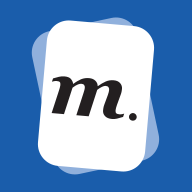
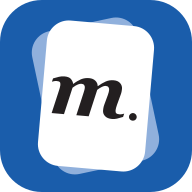
Add files via upload

diff --git a/sw.js b/sw.js
@@ -1,1 +1,1 @@
-try{self["workbox:core:7.4.0"]&&_()}catch(t){}const t=(t,...e)=>{let s=t;return e.length>0&&(s+=` :: ${JSON.stringify(e)}`),s};class e extends Error{constructor(e,s){super(t(e,s)),this.name=e,this.details=s}}try{self["workbox:routing:7.4.0"]&&_()}catch(t){}const s=t=>t&&"object"==typeof t?t:{handle:t};class n{constructor(t,e,n="GET"){this.handler=s(e),this.match=t,this.method=n}setCatchHandler(t){this.catchHandler=s(t)}}class i extends n{constructor(t,e,s){super(({url:e})=>{const s=t.exec(e.href);if(s&&(e.origin===location.origin||0===s.index))return s.slice(1)},e,s)}}class r{constructor(){this.t=new Map,this.i=new Map}get routes(){return this.t}addFetchListener(){self.addEventListener("fetch",t=>{const{request:e}=t,s=this.handleRequest({request:e,event:t});s&&t.respondWith(s)})}addCacheListener(){self.addEventListener("message",t=>{if(t.data&&"CACHE_URLS"===t.data.type){const{payload:e}=t.data,s=Promise.all(e.urlsToCache.map(e=>{"string"==typeof e&&(e=[e]);const s=new Request(...e);return this.handleRequest({request:s,event:t})}));t.waitUntil(s),t.ports&&t.ports[0]&&s.then(()=>t.ports[0].postMessage(!0))}})}handleRequest({request:t,event:e}){const s=new URL(t.url,location.href);if(!s.protocol.startsWith("http"))return;const n=s.origin===location.origin,{params:i,route:r}=this.findMatchingRoute({event:e,request:t,sameOrigin:n,url:s});let a=r&&r.handler;const o=t.method;if(!a&&this.i.has(o)&&(a=this.i.get(o)),!a)return;let c;try{c=a.handle({url:s,request:t,event:e,params:i})}catch(t){c=Promise.reject(t)}const h=r&&r.catchHandler;return c instanceof Promise&&(this.o||h)&&(c=c.catch(async n=>{if(h)try{return await h.handle({url:s,request:t,event:e,params:i})}catch(t){t instanceof Error&&(n=t)}if(this.o)return this.o.handle({url:s,request:t,event:e});throw n})),c}findMatchingRoute({url:t,sameOrigin:e,request:s,event:n}){const i=this.t.get(s.method)||[];for(const r of i){let i;const a=r.match({url:t,sameOrigin:e,request:s,event:n});if(a)return i=a,(Array.isArray(i)&&0===i.length||a.constructor===Object&&0===Object.keys(a).length||"boolean"==typeof a)&&(i=void 0),{route:r,params:i}}return{}}setDefaultHandler(t,e="GET"){this.i.set(e,s(t))}setCatchHandler(t){this.o=s(t)}registerRoute(t){this.t.has(t.method)||this.t.set(t.method,[]),this.t.get(t.method).push(t)}unregisterRoute(t){if(!this.t.has(t.method))throw new e("unregister-route-but-not-found-with-method",{method:t.method});const s=this.t.get(t.method).indexOf(t);if(!(s>-1))throw new e("unregister-route-route-not-registered");this.t.get(t.method).splice(s,1)}}let a;const o=()=>(a||(a=new r,a.addFetchListener(),a.addCacheListener()),a);function c(t,s,r){let a;if("string"==typeof t){const e=new URL(t,location.href);a=new n(({url:t})=>t.href===e.href,s,r)}else if(t instanceof RegExp)a=new i(t,s,r);else if("function"==typeof t)a=new n(t,s,r);else{if(!(t instanceof n))throw new e("unsupported-route-type",{moduleName:"workbox-routing",funcName:"registerRoute",paramName:"capture"});a=t}return o().registerRoute(a),a}const h={googleAnalytics:"googleAnalytics",precache:"precache-v2",prefix:"workbox",runtime:"runtime",suffix:"undefined"!=typeof registration?registration.scope:""},u=t=>[h.prefix,t,h.suffix].filter(t=>t&&t.length>0).join("-"),l=t=>t||u(h.precache),f=t=>t||u(h.runtime);function w(t){t.then(()=>{})}const d=new Set;function p(){return p=Object.assign?Object.assign.bind():function(t){for(var e=1;e<arguments.length;e++){var s=arguments[e];for(var n in s)({}).hasOwnProperty.call(s,n)&&(t[n]=s[n])}return t},p.apply(null,arguments)}let y,m;const g=new WeakMap,b=new WeakMap,v=new WeakMap,R=new WeakMap,q=new WeakMap;let D={get(t,e,s){if(t instanceof IDBTransaction){if("done"===e)return b.get(t);if("objectStoreNames"===e)return t.objectStoreNames||v.get(t);if("store"===e)return s.objectStoreNames[1]?void 0:s.objectStore(s.objectStoreNames[0])}return E(t[e])},set:(t,e,s)=>(t[e]=s,!0),has:(t,e)=>t instanceof IDBTransaction&&("done"===e||"store"===e)||e in t};function x(t){return t!==IDBDatabase.prototype.transaction||"objectStoreNames"in IDBTransaction.prototype?(m||(m=[IDBCursor.prototype.advance,IDBCursor.prototype.continue,IDBCursor.prototype.continuePrimaryKey])).includes(t)?function(...e){return t.apply(I(this),e),E(g.get(this))}:function(...e){return E(t.apply(I(this),e))}:function(e,...s){const n=t.call(I(this),e,...s);return v.set(n,e.sort?e.sort():[e]),E(n)}}function U(t){return"function"==typeof t?x(t):(t instanceof IDBTransaction&&function(t){if(b.has(t))return;const e=new Promise((e,s)=>{const n=()=>{t.removeEventListener("complete",i),t.removeEventListener("error",r),t.removeEventListener("abort",r)},i=()=>{e(),n()},r=()=>{s(t.error||new DOMException("AbortError","AbortError")),n()};t.addEventListener("complete",i),t.addEventListener("error",r),t.addEventListener("abort",r)});b.set(t,e)}(t),e=t,(y||(y=[IDBDatabase,IDBObjectStore,IDBIndex,IDBCursor,IDBTransaction])).some(t=>e instanceof t)?new Proxy(t,D):t);var e}function E(t){if(t instanceof IDBRequest)return function(t){const e=new Promise((e,s)=>{const n=()=>{t.removeEventListener("success",i),t.removeEventListener("error",r)},i=()=>{e(E(t.result)),n()},r=()=>{s(t.error),n()};t.addEventListener("success",i),t.addEventListener("error",r)});return e.then(e=>{e instanceof IDBCursor&&g.set(e,t)}).catch(()=>{}),q.set(e,t),e}(t);if(R.has(t))return R.get(t);const e=U(t);return e!==t&&(R.set(t,e),q.set(e,t)),e}const I=t=>q.get(t);const L=["get","getKey","getAll","getAllKeys","count"],N=["put","add","delete","clear"],T=new Map;function k(t,e){if(!(t instanceof IDBDatabase)||e in t||"string"!=typeof e)return;if(T.get(e))return T.get(e);const s=e.replace(/FromIndex$/,""),n=e!==s,i=N.includes(s);if(!(s in(n?IDBIndex:IDBObjectStore).prototype)||!i&&!L.includes(s))return;const r=async function(t,...e){const r=this.transaction(t,i?"readwrite":"readonly");let a=r.store;return n&&(a=a.index(e.shift())),(await Promise.all([a[s](...e),i&&r.done]))[0]};return T.set(e,r),r}D=(t=>p({},t,{get:(e,s,n)=>k(e,s)||t.get(e,s,n),has:(e,s)=>!!k(e,s)||t.has(e,s)}))(D);try{self["workbox:expiration:7.4.0"]&&_()}catch(t){}const C="cache-entries",O=t=>{const e=new URL(t,location.href);return e.hash="",e.href};class B{constructor(t){this.h=null,this.u=t}l(t){const e=t.createObjectStore(C,{keyPath:"id"});e.createIndex("cacheName","cacheName",{unique:!1}),e.createIndex("timestamp","timestamp",{unique:!1})}p(t){this.l(t),this.u&&function(t,{blocked:e}={}){const s=indexedDB.deleteDatabase(t);e&&s.addEventListener("blocked",t=>e(t.oldVersion,t)),E(s).then(()=>{})}(this.u)}async setTimestamp(t,e){const s={url:t=O(t),timestamp:e,cacheName:this.u,id:this.m(t)},n=(await this.getDb()).transaction(C,"readwrite",{durability:"relaxed"});await n.store.put(s),await n.done}async getTimestamp(t){const e=await this.getDb(),s=await e.get(C,this.m(t));return null==s?void 0:s.timestamp}async expireEntries(t,e){const s=await this.getDb();let n=await s.transaction(C).store.index("timestamp").openCursor(null,"prev");const i=[];let r=0;for(;n;){const s=n.value;s.cacheName===this.u&&(t&&s.timestamp<t||e&&r>=e?i.push(n.value):r++),n=await n.continue()}const a=[];for(const t of i)await s.delete(C,t.id),a.push(t.url);return a}m(t){return this.u+"|"+O(t)}async getDb(){return this.h||(this.h=await function(t,e,{blocked:s,upgrade:n,blocking:i,terminated:r}={}){const a=indexedDB.open(t,e),o=E(a);return n&&a.addEventListener("upgradeneeded",t=>{n(E(a.result),t.oldVersion,t.newVersion,E(a.transaction),t)}),s&&a.addEventListener("blocked",t=>s(t.oldVersion,t.newVersion,t)),o.then(t=>{r&&t.addEventListener("close",()=>r()),i&&t.addEventListener("versionchange",t=>i(t.oldVersion,t.newVersion,t))}).catch(()=>{}),o}("workbox-expiration",1,{upgrade:this.p.bind(this)})),this.h}}class P{constructor(t,e={}){this.v=!1,this.R=!1,this.q=e.maxEntries,this.D=e.maxAgeSeconds,this.U=e.matchOptions,this.u=t,this._=new B(t)}async expireEntries(){if(this.v)return void(this.R=!0);this.v=!0;const t=this.D?Date.now()-1e3*this.D:0,e=await this._.expireEntries(t,this.q),s=await self.caches.open(this.u);for(const t of e)await s.delete(t,this.U);this.v=!1,this.R&&(this.R=!1,w(this.expireEntries()))}async updateTimestamp(t){await this._.setTimestamp(t,Date.now())}async isURLExpired(t){if(this.D){const e=await this._.getTimestamp(t),s=Date.now()-1e3*this.D;return void 0===e||e<s}return!1}async delete(){this.R=!1,await this._.expireEntries(1/0)}}class M{constructor(t={}){this.cachedResponseWillBeUsed=async({event:t,request:e,cacheName:s,cachedResponse:n})=>{if(!n)return null;const i=this.I(n),r=this.L(s);w(r.expireEntries());const a=r.updateTimestamp(e.url);if(t)try{t.waitUntil(a)}catch(t){}return i?n:null},this.cacheDidUpdate=async({cacheName:t,request:e})=>{const s=this.L(t);await s.updateTimestamp(e.url),await s.expireEntries()},this.N=t,this.D=t.maxAgeSeconds,this.T=new Map,t.purgeOnQuotaError&&function(t){d.add(t)}(()=>this.deleteCacheAndMetadata())}L(t){if(t===f())throw new e("expire-custom-caches-only");let s=this.T.get(t);return s||(s=new P(t,this.N),this.T.set(t,s)),s}I(t){if(!this.D)return!0;const e=this.k(t);if(null===e)return!0;return e>=Date.now()-1e3*this.D}k(t){if(!t.headers.has("date"))return null;const e=t.headers.get("date"),s=new Date(e).getTime();return isNaN(s)?null:s}async deleteCacheAndMetadata(){for(const[t,e]of this.T)await self.caches.delete(t),await e.delete();this.T=new Map}}try{self["workbox:strategies:7.4.0"]&&_()}catch(t){}const S={cacheWillUpdate:async({response:t})=>200===t.status||0===t.status?t:null};function W(t,e){const s=new URL(t);for(const t of e)s.searchParams.delete(t);return s.href}class j{constructor(){this.promise=new Promise((t,e)=>{this.resolve=t,this.reject=e})}}function K(t){return"string"==typeof t?new Request(t):t}class A{constructor(t,e){this.C={},Object.assign(this,e),this.event=e.event,this.O=t,this.B=new j,this.P=[],this.M=[...t.plugins],this.S=new Map;for(const t of this.M)this.S.set(t,{});this.event.waitUntil(this.B.promise)}async fetch(t){const{event:s}=this;let n=K(t);if("navigate"===n.mode&&s instanceof FetchEvent&&s.preloadResponse){const t=await s.preloadResponse;if(t)return t}const i=this.hasCallback("fetchDidFail")?n.clone():null;try{for(const t of this.iterateCallbacks("requestWillFetch"))n=await t({request:n.clone(),event:s})}catch(t){if(t instanceof Error)throw new e("plugin-error-request-will-fetch",{thrownErrorMessage:t.message})}const r=n.clone();try{let t;t=await fetch(n,"navigate"===n.mode?void 0:this.O.fetchOptions);for(const e of this.iterateCallbacks("fetchDidSucceed"))t=await e({event:s,request:r,response:t});return t}catch(t){throw i&&await this.runCallbacks("fetchDidFail",{error:t,event:s,originalRequest:i.clone(),request:r.clone()}),t}}async fetchAndCachePut(t){const e=await this.fetch(t),s=e.clone();return this.waitUntil(this.cachePut(t,s)),e}async cacheMatch(t){const e=K(t);let s;const{cacheName:n,matchOptions:i}=this.O,r=await this.getCacheKey(e,"read"),a=Object.assign(Object.assign({},i),{cacheName:n});s=await caches.match(r,a);for(const t of this.iterateCallbacks("cachedResponseWillBeUsed"))s=await t({cacheName:n,matchOptions:i,cachedResponse:s,request:r,event:this.event})||void 0;return s}async cachePut(t,s){const n=K(t);var i;await(i=0,new Promise(t=>setTimeout(t,i)));const r=await this.getCacheKey(n,"write");if(!s)throw new e("cache-put-with-no-response",{url:(a=r.url,new URL(String(a),location.href).href.replace(new RegExp(`^${location.origin}`),""))});var a;const o=await this.W(s);if(!o)return!1;const{cacheName:c,matchOptions:h}=this.O,u=await self.caches.open(c),l=this.hasCallback("cacheDidUpdate"),f=l?await async function(t,e,s,n){const i=W(e.url,s);if(e.url===i)return t.match(e,n);const r=Object.assign(Object.assign({},n),{ignoreSearch:!0}),a=await t.keys(e,r);for(const e of a)if(i===W(e.url,s))return t.match(e,n)}(u,r.clone(),["__WB_REVISION__"],h):null;try{await u.put(r,l?o.clone():o)}catch(t){if(t instanceof Error)throw"QuotaExceededError"===t.name&&await async function(){for(const t of d)await t()}(),t}for(const t of this.iterateCallbacks("cacheDidUpdate"))await t({cacheName:c,oldResponse:f,newResponse:o.clone(),request:r,event:this.event});return!0}async getCacheKey(t,e){const s=`${t.url} | ${e}`;if(!this.C[s]){let n=t;for(const t of this.iterateCallbacks("cacheKeyWillBeUsed"))n=K(await t({mode:e,request:n,event:this.event,params:this.params}));this.C[s]=n}return this.C[s]}hasCallback(t){for(const e of this.O.plugins)if(t in e)return!0;return!1}async runCallbacks(t,e){for(const s of this.iterateCallbacks(t))await s(e)}*iterateCallbacks(t){for(const e of this.O.plugins)if("function"==typeof e[t]){const s=this.S.get(e),n=n=>{const i=Object.assign(Object.assign({},n),{state:s});return e[t](i)};yield n}}waitUntil(t){return this.P.push(t),t}async doneWaiting(){for(;this.P.length;){const t=this.P.splice(0),e=(await Promise.allSettled(t)).find(t=>"rejected"===t.status);if(e)throw e.reason}}destroy(){this.B.resolve(null)}async W(t){let e=t,s=!1;for(const t of this.iterateCallbacks("cacheWillUpdate"))if(e=await t({request:this.request,response:e,event:this.event})||void 0,s=!0,!e)break;return s||e&&200!==e.status&&(e=void 0),e}}class F{constructor(t={}){this.cacheName=f(t.cacheName),this.plugins=t.plugins||[],this.fetchOptions=t.fetchOptions,this.matchOptions=t.matchOptions}handle(t){const[e]=this.handleAll(t);return e}handleAll(t){t instanceof FetchEvent&&(t={event:t,request:t.request});const e=t.event,s="string"==typeof t.request?new Request(t.request):t.request,n="params"in t?t.params:void 0,i=new A(this,{event:e,request:s,params:n}),r=this.j(i,s,e);return[r,this.K(r,i,s,e)]}async j(t,s,n){let i;await t.runCallbacks("handlerWillStart",{event:n,request:s});try{if(i=await this.A(s,t),!i||"error"===i.type)throw new e("no-response",{url:s.url})}catch(e){if(e instanceof Error)for(const r of t.iterateCallbacks("handlerDidError"))if(i=await r({error:e,event:n,request:s}),i)break;if(!i)throw e}for(const e of t.iterateCallbacks("handlerWillRespond"))i=await e({event:n,request:s,response:i});return i}async K(t,e,s,n){let i,r;try{i=await t}catch(r){}try{await e.runCallbacks("handlerDidRespond",{event:n,request:s,response:i}),await e.doneWaiting()}catch(t){t instanceof Error&&(r=t)}if(await e.runCallbacks("handlerDidComplete",{event:n,request:s,response:i,error:r}),e.destroy(),r)throw r}}class $ extends F{constructor(t={}){super(t),this.plugins.some(t=>"cacheWillUpdate"in t)||this.plugins.unshift(S),this.F=t.networkTimeoutSeconds||0}async A(t,s){const n=[],i=[];let r;if(this.F){const{id:e,promise:a}=this.$({request:t,logs:n,handler:s});r=e,i.push(a)}const a=this.H({timeoutId:r,request:t,logs:n,handler:s});i.push(a);const o=await s.waitUntil((async()=>await s.waitUntil(Promise.race(i))||await a)());if(!o)throw new e("no-response",{url:t.url});return o}$({request:t,logs:e,handler:s}){let n;return{promise:new Promise(e=>{n=setTimeout(async()=>{e(await s.cacheMatch(t))},1e3*this.F)}),id:n}}async H({timeoutId:t,request:e,logs:s,handler:n}){let i,r;try{r=await n.fetchAndCachePut(e)}catch(t){t instanceof Error&&(i=t)}return t&&clearTimeout(t),!i&&r||(r=await n.cacheMatch(e)),r}}function H(t,e){const s=e();return t.waitUntil(s),s}try{self["workbox:precaching:7.4.0"]&&_()}catch(t){}function G(t){if(!t)throw new e("add-to-cache-list-unexpected-type",{entry:t});if("string"==typeof t){const e=new URL(t,location.href);return{cacheKey:e.href,url:e.href}}const{revision:s,url:n}=t;if(!n)throw new e("add-to-cache-list-unexpected-type",{entry:t});if(!s){const t=new URL(n,location.href);return{cacheKey:t.href,url:t.href}}const i=new URL(n,location.href),r=new URL(n,location.href);return i.searchParams.set("__WB_REVISION__",s),{cacheKey:i.href,url:r.href}}class V{constructor(){this.updatedURLs=[],this.notUpdatedURLs=[],this.handlerWillStart=async({request:t,state:e})=>{e&&(e.originalRequest=t)},this.cachedResponseWillBeUsed=async({event:t,state:e,cachedResponse:s})=>{if("install"===t.type&&e&&e.originalRequest&&e.originalRequest instanceof Request){const t=e.originalRequest.url;s?this.notUpdatedURLs.push(t):this.updatedURLs.push(t)}return s}}}class J{constructor({precacheController:t}){this.cacheKeyWillBeUsed=async({request:t,params:e})=>{const s=(null==e?void 0:e.cacheKey)||this.G.getCacheKeyForURL(t.url);return s?new Request(s,{headers:t.headers}):t},this.G=t}}let Q,z;async function X(t,s){let n=null;if(t.url){n=new URL(t.url).origin}if(n!==self.location.origin)throw new e("cross-origin-copy-response",{origin:n});const i=t.clone(),r={headers:new Headers(i.headers),status:i.status,statusText:i.statusText},a=function(){if(void 0===Q){const t=new Response("");if("body"in t)try{new Response(t.body),Q=!0}catch(t){Q=!1}Q=!1}return Q}()?i.body:await i.blob();return new Response(a,r)}class Y extends F{constructor(t={}){t.cacheName=l(t.cacheName),super(t),this.V=!1!==t.fallbackToNetwork,this.plugins.push(Y.copyRedirectedCacheableResponsesPlugin)}async A(t,e){const s=await e.cacheMatch(t);return s||(e.event&&"install"===e.event.type?await this.J(t,e):await this.X(t,e))}async X(t,s){let n;const i=s.params||{};if(!this.V)throw new e("missing-precache-entry",{cacheName:this.cacheName,url:t.url});{const e=i.integrity,r=t.integrity,a=!r||r===e;n=await s.fetch(new Request(t,{integrity:"no-cors"!==t.mode?r||e:void 0})),e&&a&&"no-cors"!==t.mode&&(this.Y(),await s.cachePut(t,n.clone()))}return n}async J(t,s){this.Y();const n=await s.fetch(t);if(!await s.cachePut(t,n.clone()))throw new e("bad-precaching-response",{url:t.url,status:n.status});return n}Y(){let t=null,e=0;for(const[s,n]of this.plugins.entries())n!==Y.copyRedirectedCacheableResponsesPlugin&&(n===Y.defaultPrecacheCacheabilityPlugin&&(t=s),n.cacheWillUpdate&&e++);0===e?this.plugins.push(Y.defaultPrecacheCacheabilityPlugin):e>1&&null!==t&&this.plugins.splice(t,1)}}Y.defaultPrecacheCacheabilityPlugin={cacheWillUpdate:async({response:t})=>!t||t.status>=400?null:t},Y.copyRedirectedCacheableResponsesPlugin={cacheWillUpdate:async({response:t})=>t.redirected?await X(t):t};class Z{constructor({cacheName:t,plugins:e=[],fallbackToNetwork:s=!0}={}){this.Z=new Map,this.tt=new Map,this.et=new Map,this.O=new Y({cacheName:l(t),plugins:[...e,new J({precacheController:this})],fallbackToNetwork:s}),this.install=this.install.bind(this),this.activate=this.activate.bind(this)}get strategy(){return this.O}precache(t){this.addToCacheList(t),this.st||(self.addEventListener("install",this.install),self.addEventListener("activate",this.activate),this.st=!0)}addToCacheList(t){const s=[];for(const n of t){"string"==typeof n?s.push(n):n&&void 0===n.revision&&s.push(n.url);const{cacheKey:t,url:i}=G(n),r="string"!=typeof n&&n.revision?"reload":"default";if(this.Z.has(i)&&this.Z.get(i)!==t)throw new e("add-to-cache-list-conflicting-entries",{firstEntry:this.Z.get(i),secondEntry:t});if("string"!=typeof n&&n.integrity){if(this.et.has(t)&&this.et.get(t)!==n.integrity)throw new e("add-to-cache-list-conflicting-integrities",{url:i});this.et.set(t,n.integrity)}if(this.Z.set(i,t),this.tt.set(i,r),s.length>0){const t=`Workbox is precaching URLs without revision info: ${s.join(", ")}\nThis is generally NOT safe. Learn more at https://bit.ly/wb-precache`;console.warn(t)}}}install(t){return H(t,async()=>{const e=new V;this.strategy.plugins.push(e);for(const[e,s]of this.Z){const n=this.et.get(s),i=this.tt.get(e),r=new Request(e,{integrity:n,cache:i,credentials:"same-origin"});await Promise.all(this.strategy.handleAll({params:{cacheKey:s},request:r,event:t}))}const{updatedURLs:s,notUpdatedURLs:n}=e;return{updatedURLs:s,notUpdatedURLs:n}})}activate(t){return H(t,async()=>{const t=await self.caches.open(this.strategy.cacheName),e=await t.keys(),s=new Set(this.Z.values()),n=[];for(const i of e)s.has(i.url)||(await t.delete(i),n.push(i.url));return{deletedURLs:n}})}getURLsToCacheKeys(){return this.Z}getCachedURLs(){return[...this.Z.keys()]}getCacheKeyForURL(t){const e=new URL(t,location.href);return this.Z.get(e.href)}getIntegrityForCacheKey(t){return this.et.get(t)}async matchPrecache(t){const e=t instanceof Request?t.url:t,s=this.getCacheKeyForURL(e);if(s){return(await self.caches.open(this.strategy.cacheName)).match(s)}}createHandlerBoundToURL(t){const s=this.getCacheKeyForURL(t);if(!s)throw new e("non-precached-url",{url:t});return e=>(e.request=new Request(t),e.params=Object.assign({cacheKey:s},e.params),this.strategy.handle(e))}}const tt=()=>(z||(z=new Z),z);class et extends n{constructor(t,e){super(({request:s})=>{const n=t.getURLsToCacheKeys();for(const i of function*(t,{ignoreURLParametersMatching:e=[/^utm_/,/^fbclid$/],directoryIndex:s="index.html",cleanURLs:n=!0,urlManipulation:i}={}){const r=new URL(t,location.href);r.hash="",yield r.href;const a=function(t,e=[]){for(const s of[...t.searchParams.keys()])e.some(t=>t.test(s))&&t.searchParams.delete(s);return t}(r,e);if(yield a.href,s&&a.pathname.endsWith("/")){const t=new URL(a.href);t.pathname+=s,yield t.href}if(n){const t=new URL(a.href);t.pathname+=".html",yield t.href}if(i){const t=i({url:r});for(const e of t)yield e.href}}(s.url,e)){const e=n.get(i);if(e){return{cacheKey:e,integrity:t.getIntegrityForCacheKey(e)}}}},t.strategy)}}var st,nt;self.skipWaiting(),self.addEventListener("activate",()=>self.clients.claim()),st={},function(t){tt().precache(t)}([{url:"pwa-512x512.png",revision:"642e9e2b7363ccf08d366879b3ed811d"},{url:"pwa-192x192.png",revision:"0093bbaa1b311d5fd0dc0a86edcb536f"},{url:"maskable-512x512.png",revision:"195ce0c35deb20212426b977095b41b7"},{url:"manifest.webmanifest",revision:"12393d45d35449ba7c7c7ca041d455ab"},{url:"index.html",revision:"d3cb89ab71cb25ec2ee5a0197d181b29"},{url:"favicon.svg",revision:"7f253175b97bca84fe17d796e4789ff4"},{url:"favicon-64.png",revision:"7b3002f5c02b911724714414a7317fae"},{url:"apple-touch-icon.png",revision:"40df6bef06a526eb7f9a17b3cd0d244e"},{url:"manifest.webmanifest",revision:"12393d45d35449ba7c7c7ca041d455ab"}]),function(t){const e=tt();c(new et(e,t))}(st),self.addEventListener("activate",t=>{const e=l();t.waitUntil((async(t,e="-precache-")=>{const s=(await self.caches.keys()).filter(s=>s.includes(e)&&s.includes(self.registration.scope)&&s!==t);return await Promise.all(s.map(t=>self.caches.delete(t))),s})(e).then(t=>{}))}),c(new class extends n{constructor(t,{allowlist:e=[/./],denylist:s=[]}={}){super(t=>this.nt(t),t),this.it=e,this.rt=s}nt({url:t,request:e}){if(e&&"navigate"!==e.mode)return!1;const s=t.pathname+t.search;for(const t of this.rt)if(t.test(s))return!1;return!!this.it.some(t=>t.test(s))}}((nt="index.html",tt().createHandlerBoundToURL(nt)))),c(/\/dictionary\.csv(\?.*)?$/,new $({cacheName:"eesti2000-dictionary",networkTimeoutSeconds:6,plugins:[new M({maxEntries:2})]}),"GET"),c(/\/grammar\.csv(\?.*)?$/,new $({cacheName:"eesti2000-grammar",networkTimeoutSeconds:6,plugins:[new M({maxEntries:2})]}),"GET"),c(/\/greetings\.csv(\?.*)?$/,new $({cacheName:"eesti2000-greetings",networkTimeoutSeconds:6,plugins:[new M({maxEntries:2})]}),"GET"),c(/\/praise\.csv(\?.*)?$/,new $({cacheName:"eesti2000-praise",networkTimeoutSeconds:6,plugins:[new M({maxEntries:2})]}),"GET");
+try{self["workbox:core:7.4.0"]&&_()}catch(t){}const t=(t,...e)=>{let s=t;return e.length>0&&(s+=` :: ${JSON.stringify(e)}`),s};class e extends Error{constructor(e,s){super(t(e,s)),this.name=e,this.details=s}}try{self["workbox:routing:7.4.0"]&&_()}catch(t){}const s=t=>t&&"object"==typeof t?t:{handle:t};class n{constructor(t,e,n="GET"){this.handler=s(e),this.match=t,this.method=n}setCatchHandler(t){this.catchHandler=s(t)}}class i extends n{constructor(t,e,s){super(({url:e})=>{const s=t.exec(e.href);if(s&&(e.origin===location.origin||0===s.index))return s.slice(1)},e,s)}}class r{constructor(){this.t=new Map,this.i=new Map}get routes(){return this.t}addFetchListener(){self.addEventListener("fetch",t=>{const{request:e}=t,s=this.handleRequest({request:e,event:t});s&&t.respondWith(s)})}addCacheListener(){self.addEventListener("message",t=>{if(t.data&&"CACHE_URLS"===t.data.type){const{payload:e}=t.data,s=Promise.all(e.urlsToCache.map(e=>{"string"==typeof e&&(e=[e]);const s=new Request(...e);return this.handleRequest({request:s,event:t})}));t.waitUntil(s),t.ports&&t.ports[0]&&s.then(()=>t.ports[0].postMessage(!0))}})}handleRequest({request:t,event:e}){const s=new URL(t.url,location.href);if(!s.protocol.startsWith("http"))return;const n=s.origin===location.origin,{params:i,route:r}=this.findMatchingRoute({event:e,request:t,sameOrigin:n,url:s});let a=r&&r.handler;const o=t.method;if(!a&&this.i.has(o)&&(a=this.i.get(o)),!a)return;let c;try{c=a.handle({url:s,request:t,event:e,params:i})}catch(t){c=Promise.reject(t)}const h=r&&r.catchHandler;return c instanceof Promise&&(this.o||h)&&(c=c.catch(async n=>{if(h)try{return await h.handle({url:s,request:t,event:e,params:i})}catch(t){t instanceof Error&&(n=t)}if(this.o)return this.o.handle({url:s,request:t,event:e});throw n})),c}findMatchingRoute({url:t,sameOrigin:e,request:s,event:n}){const i=this.t.get(s.method)||[];for(const r of i){let i;const a=r.match({url:t,sameOrigin:e,request:s,event:n});if(a)return i=a,(Array.isArray(i)&&0===i.length||a.constructor===Object&&0===Object.keys(a).length||"boolean"==typeof a)&&(i=void 0),{route:r,params:i}}return{}}setDefaultHandler(t,e="GET"){this.i.set(e,s(t))}setCatchHandler(t){this.o=s(t)}registerRoute(t){this.t.has(t.method)||this.t.set(t.method,[]),this.t.get(t.method).push(t)}unregisterRoute(t){if(!this.t.has(t.method))throw new e("unregister-route-but-not-found-with-method",{method:t.method});const s=this.t.get(t.method).indexOf(t);if(!(s>-1))throw new e("unregister-route-route-not-registered");this.t.get(t.method).splice(s,1)}}let a;const o=()=>(a||(a=new r,a.addFetchListener(),a.addCacheListener()),a);function c(t,s,r){let a;if("string"==typeof t){const e=new URL(t,location.href);a=new n(({url:t})=>t.href===e.href,s,r)}else if(t instanceof RegExp)a=new i(t,s,r);else if("function"==typeof t)a=new n(t,s,r);else{if(!(t instanceof n))throw new e("unsupported-route-type",{moduleName:"workbox-routing",funcName:"registerRoute",paramName:"capture"});a=t}return o().registerRoute(a),a}const h={googleAnalytics:"googleAnalytics",precache:"precache-v2",prefix:"workbox",runtime:"runtime",suffix:"undefined"!=typeof registration?registration.scope:""},u=t=>[h.prefix,t,h.suffix].filter(t=>t&&t.length>0).join("-"),l=t=>t||u(h.precache),f=t=>t||u(h.runtime);function w(t){t.then(()=>{})}const d=new Set;function p(){return p=Object.assign?Object.assign.bind():function(t){for(var e=1;e<arguments.length;e++){var s=arguments[e];for(var n in s)({}).hasOwnProperty.call(s,n)&&(t[n]=s[n])}return t},p.apply(null,arguments)}let y,m;const g=new WeakMap,b=new WeakMap,v=new WeakMap,R=new WeakMap,q=new WeakMap;let D={get(t,e,s){if(t instanceof IDBTransaction){if("done"===e)return b.get(t);if("objectStoreNames"===e)return t.objectStoreNames||v.get(t);if("store"===e)return s.objectStoreNames[1]?void 0:s.objectStore(s.objectStoreNames[0])}return E(t[e])},set:(t,e,s)=>(t[e]=s,!0),has:(t,e)=>t instanceof IDBTransaction&&("done"===e||"store"===e)||e in t};function x(t){return t!==IDBDatabase.prototype.transaction||"objectStoreNames"in IDBTransaction.prototype?(m||(m=[IDBCursor.prototype.advance,IDBCursor.prototype.continue,IDBCursor.prototype.continuePrimaryKey])).includes(t)?function(...e){return t.apply(I(this),e),E(g.get(this))}:function(...e){return E(t.apply(I(this),e))}:function(e,...s){const n=t.call(I(this),e,...s);return v.set(n,e.sort?e.sort():[e]),E(n)}}function U(t){return"function"==typeof t?x(t):(t instanceof IDBTransaction&&function(t){if(b.has(t))return;const e=new Promise((e,s)=>{const n=()=>{t.removeEventListener("complete",i),t.removeEventListener("error",r),t.removeEventListener("abort",r)},i=()=>{e(),n()},r=()=>{s(t.error||new DOMException("AbortError","AbortError")),n()};t.addEventListener("complete",i),t.addEventListener("error",r),t.addEventListener("abort",r)});b.set(t,e)}(t),e=t,(y||(y=[IDBDatabase,IDBObjectStore,IDBIndex,IDBCursor,IDBTransaction])).some(t=>e instanceof t)?new Proxy(t,D):t);var e}function E(t){if(t instanceof IDBRequest)return function(t){const e=new Promise((e,s)=>{const n=()=>{t.removeEventListener("success",i),t.removeEventListener("error",r)},i=()=>{e(E(t.result)),n()},r=()=>{s(t.error),n()};t.addEventListener("success",i),t.addEventListener("error",r)});return e.then(e=>{e instanceof IDBCursor&&g.set(e,t)}).catch(()=>{}),q.set(e,t),e}(t);if(R.has(t))return R.get(t);const e=U(t);return e!==t&&(R.set(t,e),q.set(e,t)),e}const I=t=>q.get(t);const L=["get","getKey","getAll","getAllKeys","count"],N=["put","add","delete","clear"],T=new Map;function k(t,e){if(!(t instanceof IDBDatabase)||e in t||"string"!=typeof e)return;if(T.get(e))return T.get(e);const s=e.replace(/FromIndex$/,""),n=e!==s,i=N.includes(s);if(!(s in(n?IDBIndex:IDBObjectStore).prototype)||!i&&!L.includes(s))return;const r=async function(t,...e){const r=this.transaction(t,i?"readwrite":"readonly");let a=r.store;return n&&(a=a.index(e.shift())),(await Promise.all([a[s](...e),i&&r.done]))[0]};return T.set(e,r),r}D=(t=>p({},t,{get:(e,s,n)=>k(e,s)||t.get(e,s,n),has:(e,s)=>!!k(e,s)||t.has(e,s)}))(D);try{self["workbox:expiration:7.4.0"]&&_()}catch(t){}const C="cache-entries",O=t=>{const e=new URL(t,location.href);return e.hash="",e.href};class B{constructor(t){this.h=null,this.u=t}l(t){const e=t.createObjectStore(C,{keyPath:"id"});e.createIndex("cacheName","cacheName",{unique:!1}),e.createIndex("timestamp","timestamp",{unique:!1})}p(t){this.l(t),this.u&&function(t,{blocked:e}={}){const s=indexedDB.deleteDatabase(t);e&&s.addEventListener("blocked",t=>e(t.oldVersion,t)),E(s).then(()=>{})}(this.u)}async setTimestamp(t,e){const s={url:t=O(t),timestamp:e,cacheName:this.u,id:this.m(t)},n=(await this.getDb()).transaction(C,"readwrite",{durability:"relaxed"});await n.store.put(s),await n.done}async getTimestamp(t){const e=await this.getDb(),s=await e.get(C,this.m(t));return null==s?void 0:s.timestamp}async expireEntries(t,e){const s=await this.getDb();let n=await s.transaction(C).store.index("timestamp").openCursor(null,"prev");const i=[];let r=0;for(;n;){const s=n.value;s.cacheName===this.u&&(t&&s.timestamp<t||e&&r>=e?i.push(n.value):r++),n=await n.continue()}const a=[];for(const t of i)await s.delete(C,t.id),a.push(t.url);return a}m(t){return this.u+"|"+O(t)}async getDb(){return this.h||(this.h=await function(t,e,{blocked:s,upgrade:n,blocking:i,terminated:r}={}){const a=indexedDB.open(t,e),o=E(a);return n&&a.addEventListener("upgradeneeded",t=>{n(E(a.result),t.oldVersion,t.newVersion,E(a.transaction),t)}),s&&a.addEventListener("blocked",t=>s(t.oldVersion,t.newVersion,t)),o.then(t=>{r&&t.addEventListener("close",()=>r()),i&&t.addEventListener("versionchange",t=>i(t.oldVersion,t.newVersion,t))}).catch(()=>{}),o}("workbox-expiration",1,{upgrade:this.p.bind(this)})),this.h}}class P{constructor(t,e={}){this.v=!1,this.R=!1,this.q=e.maxEntries,this.D=e.maxAgeSeconds,this.U=e.matchOptions,this.u=t,this._=new B(t)}async expireEntries(){if(this.v)return void(this.R=!0);this.v=!0;const t=this.D?Date.now()-1e3*this.D:0,e=await this._.expireEntries(t,this.q),s=await self.caches.open(this.u);for(const t of e)await s.delete(t,this.U);this.v=!1,this.R&&(this.R=!1,w(this.expireEntries()))}async updateTimestamp(t){await this._.setTimestamp(t,Date.now())}async isURLExpired(t){if(this.D){const e=await this._.getTimestamp(t),s=Date.now()-1e3*this.D;return void 0===e||e<s}return!1}async delete(){this.R=!1,await this._.expireEntries(1/0)}}class M{constructor(t={}){this.cachedResponseWillBeUsed=async({event:t,request:e,cacheName:s,cachedResponse:n})=>{if(!n)return null;const i=this.I(n),r=this.L(s);w(r.expireEntries());const a=r.updateTimestamp(e.url);if(t)try{t.waitUntil(a)}catch(t){}return i?n:null},this.cacheDidUpdate=async({cacheName:t,request:e})=>{const s=this.L(t);await s.updateTimestamp(e.url),await s.expireEntries()},this.N=t,this.D=t.maxAgeSeconds,this.T=new Map,t.purgeOnQuotaError&&function(t){d.add(t)}(()=>this.deleteCacheAndMetadata())}L(t){if(t===f())throw new e("expire-custom-caches-only");let s=this.T.get(t);return s||(s=new P(t,this.N),this.T.set(t,s)),s}I(t){if(!this.D)return!0;const e=this.k(t);if(null===e)return!0;return e>=Date.now()-1e3*this.D}k(t){if(!t.headers.has("date"))return null;const e=t.headers.get("date"),s=new Date(e).getTime();return isNaN(s)?null:s}async deleteCacheAndMetadata(){for(const[t,e]of this.T)await self.caches.delete(t),await e.delete();this.T=new Map}}try{self["workbox:strategies:7.4.0"]&&_()}catch(t){}const S={cacheWillUpdate:async({response:t})=>200===t.status||0===t.status?t:null};function W(t,e){const s=new URL(t);for(const t of e)s.searchParams.delete(t);return s.href}class j{constructor(){this.promise=new Promise((t,e)=>{this.resolve=t,this.reject=e})}}function K(t){return"string"==typeof t?new Request(t):t}class A{constructor(t,e){this.C={},Object.assign(this,e),this.event=e.event,this.O=t,this.B=new j,this.P=[],this.M=[...t.plugins],this.S=new Map;for(const t of this.M)this.S.set(t,{});this.event.waitUntil(this.B.promise)}async fetch(t){const{event:s}=this;let n=K(t);if("navigate"===n.mode&&s instanceof FetchEvent&&s.preloadResponse){const t=await s.preloadResponse;if(t)return t}const i=this.hasCallback("fetchDidFail")?n.clone():null;try{for(const t of this.iterateCallbacks("requestWillFetch"))n=await t({request:n.clone(),event:s})}catch(t){if(t instanceof Error)throw new e("plugin-error-request-will-fetch",{thrownErrorMessage:t.message})}const r=n.clone();try{let t;t=await fetch(n,"navigate"===n.mode?void 0:this.O.fetchOptions);for(const e of this.iterateCallbacks("fetchDidSucceed"))t=await e({event:s,request:r,response:t});return t}catch(t){throw i&&await this.runCallbacks("fetchDidFail",{error:t,event:s,originalRequest:i.clone(),request:r.clone()}),t}}async fetchAndCachePut(t){const e=await this.fetch(t),s=e.clone();return this.waitUntil(this.cachePut(t,s)),e}async cacheMatch(t){const e=K(t);let s;const{cacheName:n,matchOptions:i}=this.O,r=await this.getCacheKey(e,"read"),a=Object.assign(Object.assign({},i),{cacheName:n});s=await caches.match(r,a);for(const t of this.iterateCallbacks("cachedResponseWillBeUsed"))s=await t({cacheName:n,matchOptions:i,cachedResponse:s,request:r,event:this.event})||void 0;return s}async cachePut(t,s){const n=K(t);var i;await(i=0,new Promise(t=>setTimeout(t,i)));const r=await this.getCacheKey(n,"write");if(!s)throw new e("cache-put-with-no-response",{url:(a=r.url,new URL(String(a),location.href).href.replace(new RegExp(`^${location.origin}`),""))});var a;const o=await this.W(s);if(!o)return!1;const{cacheName:c,matchOptions:h}=this.O,u=await self.caches.open(c),l=this.hasCallback("cacheDidUpdate"),f=l?await async function(t,e,s,n){const i=W(e.url,s);if(e.url===i)return t.match(e,n);const r=Object.assign(Object.assign({},n),{ignoreSearch:!0}),a=await t.keys(e,r);for(const e of a)if(i===W(e.url,s))return t.match(e,n)}(u,r.clone(),["__WB_REVISION__"],h):null;try{await u.put(r,l?o.clone():o)}catch(t){if(t instanceof Error)throw"QuotaExceededError"===t.name&&await async function(){for(const t of d)await t()}(),t}for(const t of this.iterateCallbacks("cacheDidUpdate"))await t({cacheName:c,oldResponse:f,newResponse:o.clone(),request:r,event:this.event});return!0}async getCacheKey(t,e){const s=`${t.url} | ${e}`;if(!this.C[s]){let n=t;for(const t of this.iterateCallbacks("cacheKeyWillBeUsed"))n=K(await t({mode:e,request:n,event:this.event,params:this.params}));this.C[s]=n}return this.C[s]}hasCallback(t){for(const e of this.O.plugins)if(t in e)return!0;return!1}async runCallbacks(t,e){for(const s of this.iterateCallbacks(t))await s(e)}*iterateCallbacks(t){for(const e of this.O.plugins)if("function"==typeof e[t]){const s=this.S.get(e),n=n=>{const i=Object.assign(Object.assign({},n),{state:s});return e[t](i)};yield n}}waitUntil(t){return this.P.push(t),t}async doneWaiting(){for(;this.P.length;){const t=this.P.splice(0),e=(await Promise.allSettled(t)).find(t=>"rejected"===t.status);if(e)throw e.reason}}destroy(){this.B.resolve(null)}async W(t){let e=t,s=!1;for(const t of this.iterateCallbacks("cacheWillUpdate"))if(e=await t({request:this.request,response:e,event:this.event})||void 0,s=!0,!e)break;return s||e&&200!==e.status&&(e=void 0),e}}class F{constructor(t={}){this.cacheName=f(t.cacheName),this.plugins=t.plugins||[],this.fetchOptions=t.fetchOptions,this.matchOptions=t.matchOptions}handle(t){const[e]=this.handleAll(t);return e}handleAll(t){t instanceof FetchEvent&&(t={event:t,request:t.request});const e=t.event,s="string"==typeof t.request?new Request(t.request):t.request,n="params"in t?t.params:void 0,i=new A(this,{event:e,request:s,params:n}),r=this.j(i,s,e);return[r,this.K(r,i,s,e)]}async j(t,s,n){let i;await t.runCallbacks("handlerWillStart",{event:n,request:s});try{if(i=await this.A(s,t),!i||"error"===i.type)throw new e("no-response",{url:s.url})}catch(e){if(e instanceof Error)for(const r of t.iterateCallbacks("handlerDidError"))if(i=await r({error:e,event:n,request:s}),i)break;if(!i)throw e}for(const e of t.iterateCallbacks("handlerWillRespond"))i=await e({event:n,request:s,response:i});return i}async K(t,e,s,n){let i,r;try{i=await t}catch(r){}try{await e.runCallbacks("handlerDidRespond",{event:n,request:s,response:i}),await e.doneWaiting()}catch(t){t instanceof Error&&(r=t)}if(await e.runCallbacks("handlerDidComplete",{event:n,request:s,response:i,error:r}),e.destroy(),r)throw r}}class $ extends F{constructor(t={}){super(t),this.plugins.some(t=>"cacheWillUpdate"in t)||this.plugins.unshift(S),this.F=t.networkTimeoutSeconds||0}async A(t,s){const n=[],i=[];let r;if(this.F){const{id:e,promise:a}=this.$({request:t,logs:n,handler:s});r=e,i.push(a)}const a=this.H({timeoutId:r,request:t,logs:n,handler:s});i.push(a);const o=await s.waitUntil((async()=>await s.waitUntil(Promise.race(i))||await a)());if(!o)throw new e("no-response",{url:t.url});return o}$({request:t,logs:e,handler:s}){let n;return{promise:new Promise(e=>{n=setTimeout(async()=>{e(await s.cacheMatch(t))},1e3*this.F)}),id:n}}async H({timeoutId:t,request:e,logs:s,handler:n}){let i,r;try{r=await n.fetchAndCachePut(e)}catch(t){t instanceof Error&&(i=t)}return t&&clearTimeout(t),!i&&r||(r=await n.cacheMatch(e)),r}}function H(t,e){const s=e();return t.waitUntil(s),s}try{self["workbox:precaching:7.4.0"]&&_()}catch(t){}function G(t){if(!t)throw new e("add-to-cache-list-unexpected-type",{entry:t});if("string"==typeof t){const e=new URL(t,location.href);return{cacheKey:e.href,url:e.href}}const{revision:s,url:n}=t;if(!n)throw new e("add-to-cache-list-unexpected-type",{entry:t});if(!s){const t=new URL(n,location.href);return{cacheKey:t.href,url:t.href}}const i=new URL(n,location.href),r=new URL(n,location.href);return i.searchParams.set("__WB_REVISION__",s),{cacheKey:i.href,url:r.href}}class V{constructor(){this.updatedURLs=[],this.notUpdatedURLs=[],this.handlerWillStart=async({request:t,state:e})=>{e&&(e.originalRequest=t)},this.cachedResponseWillBeUsed=async({event:t,state:e,cachedResponse:s})=>{if("install"===t.type&&e&&e.originalRequest&&e.originalRequest instanceof Request){const t=e.originalRequest.url;s?this.notUpdatedURLs.push(t):this.updatedURLs.push(t)}return s}}}class J{constructor({precacheController:t}){this.cacheKeyWillBeUsed=async({request:t,params:e})=>{const s=(null==e?void 0:e.cacheKey)||this.G.getCacheKeyForURL(t.url);return s?new Request(s,{headers:t.headers}):t},this.G=t}}let Q,z;async function X(t,s){let n=null;if(t.url){n=new URL(t.url).origin}if(n!==self.location.origin)throw new e("cross-origin-copy-response",{origin:n});const i=t.clone(),r={headers:new Headers(i.headers),status:i.status,statusText:i.statusText},a=function(){if(void 0===Q){const t=new Response("");if("body"in t)try{new Response(t.body),Q=!0}catch(t){Q=!1}Q=!1}return Q}()?i.body:await i.blob();return new Response(a,r)}class Y extends F{constructor(t={}){t.cacheName=l(t.cacheName),super(t),this.V=!1!==t.fallbackToNetwork,this.plugins.push(Y.copyRedirectedCacheableResponsesPlugin)}async A(t,e){const s=await e.cacheMatch(t);return s||(e.event&&"install"===e.event.type?await this.J(t,e):await this.X(t,e))}async X(t,s){let n;const i=s.params||{};if(!this.V)throw new e("missing-precache-entry",{cacheName:this.cacheName,url:t.url});{const e=i.integrity,r=t.integrity,a=!r||r===e;n=await s.fetch(new Request(t,{integrity:"no-cors"!==t.mode?r||e:void 0})),e&&a&&"no-cors"!==t.mode&&(this.Y(),await s.cachePut(t,n.clone()))}return n}async J(t,s){this.Y();const n=await s.fetch(t);if(!await s.cachePut(t,n.clone()))throw new e("bad-precaching-response",{url:t.url,status:n.status});return n}Y(){let t=null,e=0;for(const[s,n]of this.plugins.entries())n!==Y.copyRedirectedCacheableResponsesPlugin&&(n===Y.defaultPrecacheCacheabilityPlugin&&(t=s),n.cacheWillUpdate&&e++);0===e?this.plugins.push(Y.defaultPrecacheCacheabilityPlugin):e>1&&null!==t&&this.plugins.splice(t,1)}}Y.defaultPrecacheCacheabilityPlugin={cacheWillUpdate:async({response:t})=>!t||t.status>=400?null:t},Y.copyRedirectedCacheableResponsesPlugin={cacheWillUpdate:async({response:t})=>t.redirected?await X(t):t};class Z{constructor({cacheName:t,plugins:e=[],fallbackToNetwork:s=!0}={}){this.Z=new Map,this.tt=new Map,this.et=new Map,this.O=new Y({cacheName:l(t),plugins:[...e,new J({precacheController:this})],fallbackToNetwork:s}),this.install=this.install.bind(this),this.activate=this.activate.bind(this)}get strategy(){return this.O}precache(t){this.addToCacheList(t),this.st||(self.addEventListener("install",this.install),self.addEventListener("activate",this.activate),this.st=!0)}addToCacheList(t){const s=[];for(const n of t){"string"==typeof n?s.push(n):n&&void 0===n.revision&&s.push(n.url);const{cacheKey:t,url:i}=G(n),r="string"!=typeof n&&n.revision?"reload":"default";if(this.Z.has(i)&&this.Z.get(i)!==t)throw new e("add-to-cache-list-conflicting-entries",{firstEntry:this.Z.get(i),secondEntry:t});if("string"!=typeof n&&n.integrity){if(this.et.has(t)&&this.et.get(t)!==n.integrity)throw new e("add-to-cache-list-conflicting-integrities",{url:i});this.et.set(t,n.integrity)}if(this.Z.set(i,t),this.tt.set(i,r),s.length>0){const t=`Workbox is precaching URLs without revision info: ${s.join(", ")}\nThis is generally NOT safe. Learn more at https://bit.ly/wb-precache`;console.warn(t)}}}install(t){return H(t,async()=>{const e=new V;this.strategy.plugins.push(e);for(const[e,s]of this.Z){const n=this.et.get(s),i=this.tt.get(e),r=new Request(e,{integrity:n,cache:i,credentials:"same-origin"});await Promise.all(this.strategy.handleAll({params:{cacheKey:s},request:r,event:t}))}const{updatedURLs:s,notUpdatedURLs:n}=e;return{updatedURLs:s,notUpdatedURLs:n}})}activate(t){return H(t,async()=>{const t=await self.caches.open(this.strategy.cacheName),e=await t.keys(),s=new Set(this.Z.values()),n=[];for(const i of e)s.has(i.url)||(await t.delete(i),n.push(i.url));return{deletedURLs:n}})}getURLsToCacheKeys(){return this.Z}getCachedURLs(){return[...this.Z.keys()]}getCacheKeyForURL(t){const e=new URL(t,location.href);return this.Z.get(e.href)}getIntegrityForCacheKey(t){return this.et.get(t)}async matchPrecache(t){const e=t instanceof Request?t.url:t,s=this.getCacheKeyForURL(e);if(s){return(await self.caches.open(this.strategy.cacheName)).match(s)}}createHandlerBoundToURL(t){const s=this.getCacheKeyForURL(t);if(!s)throw new e("non-precached-url",{url:t});return e=>(e.request=new Request(t),e.params=Object.assign({cacheKey:s},e.params),this.strategy.handle(e))}}const tt=()=>(z||(z=new Z),z);class et extends n{constructor(t,e){super(({request:s})=>{const n=t.getURLsToCacheKeys();for(const i of function*(t,{ignoreURLParametersMatching:e=[/^utm_/,/^fbclid$/],directoryIndex:s="index.html",cleanURLs:n=!0,urlManipulation:i}={}){const r=new URL(t,location.href);r.hash="",yield r.href;const a=function(t,e=[]){for(const s of[...t.searchParams.keys()])e.some(t=>t.test(s))&&t.searchParams.delete(s);return t}(r,e);if(yield a.href,s&&a.pathname.endsWith("/")){const t=new URL(a.href);t.pathname+=s,yield t.href}if(n){const t=new URL(a.href);t.pathname+=".html",yield t.href}if(i){const t=i({url:r});for(const e of t)yield e.href}}(s.url,e)){const e=n.get(i);if(e){return{cacheKey:e,integrity:t.getIntegrityForCacheKey(e)}}}},t.strategy)}}var st,nt;self.skipWaiting(),self.addEventListener("activate",()=>self.clients.claim()),st={},function(t){tt().precache(t)}([{url:"pwa-512x512.png",revision:"e214bba02b61a6f17deddc35a070a9ae"},{url:"pwa-192x192.png",revision:"099dcdf663f172d4da6239e2c25e30be"},{url:"maskable-512x512.png",revision:"195ce0c35deb20212426b977095b41b7"},{url:"manifest.webmanifest",revision:"12393d45d35449ba7c7c7ca041d455ab"},{url:"index.html",revision:"d3cb89ab71cb25ec2ee5a0197d181b29"},{url:"favicon.svg",revision:"7f253175b97bca84fe17d796e4789ff4"},{url:"favicon-64.png",revision:"7b3002f5c02b911724714414a7317fae"},{url:"apple-touch-icon.png",revision:"40df6bef06a526eb7f9a17b3cd0d244e"},{url:"manifest.webmanifest",revision:"12393d45d35449ba7c7c7ca041d455ab"}]),function(t){const e=tt();c(new et(e,t))}(st),self.addEventListener("activate",t=>{const e=l();t.waitUntil((async(t,e="-precache-")=>{const s=(await self.caches.keys()).filter(s=>s.includes(e)&&s.includes(self.registration.scope)&&s!==t);return await Promise.all(s.map(t=>self.caches.delete(t))),s})(e).then(t=>{}))}),c(new class extends n{constructor(t,{allowlist:e=[/./],denylist:s=[]}={}){super(t=>this.nt(t),t),this.it=e,this.rt=s}nt({url:t,request:e}){if(e&&"navigate"!==e.mode)return!1;const s=t.pathname+t.search;for(const t of this.rt)if(t.test(s))return!1;return!!this.it.some(t=>t.test(s))}}((nt="index.html",tt().createHandlerBoundToURL(nt)))),c(/\/dictionary\.csv(\?.*)?$/,new $({cacheName:"eesti2000-dictionary",networkTimeoutSeconds:6,plugins:[new M({maxEntries:2})]}),"GET"),c(/\/grammar\.csv(\?.*)?$/,new $({cacheName:"eesti2000-grammar",networkTimeoutSeconds:6,plugins:[new M({maxEntries:2})]}),"GET"),c(/\/greetings\.csv(\?.*)?$/,new $({cacheName:"eesti2000-greetings",networkTimeoutSeconds:6,plugins:[new M({maxEntries:2})]}),"GET"),c(/\/praise\.csv(\?.*)?$/,new $({cacheName:"eesti2000-praise",networkTimeoutSeconds:6,plugins:[new M({maxEntries:2})]}),"GET");
